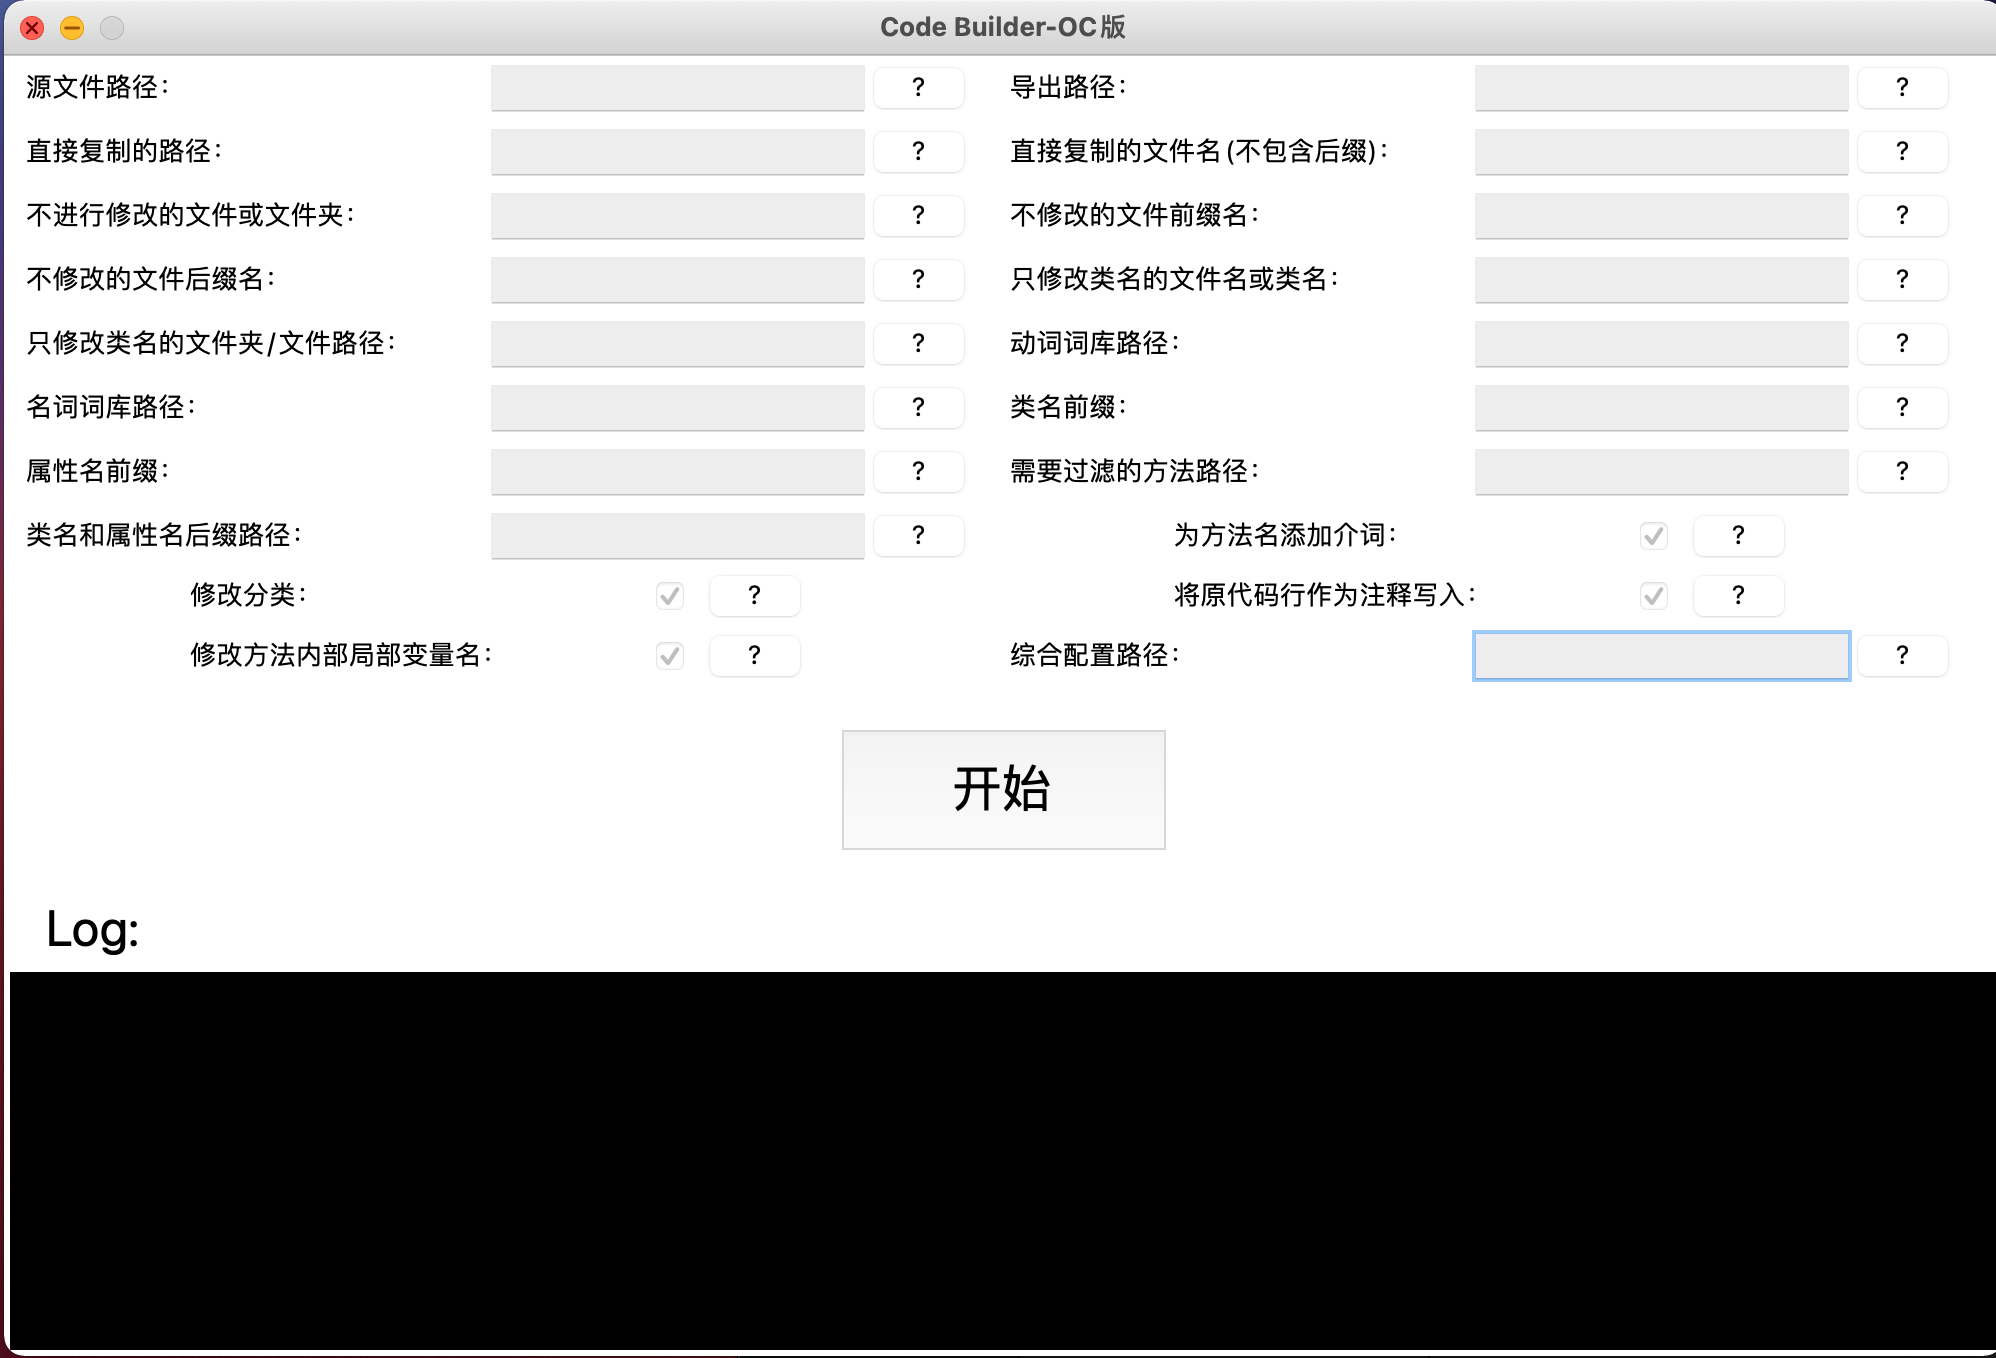
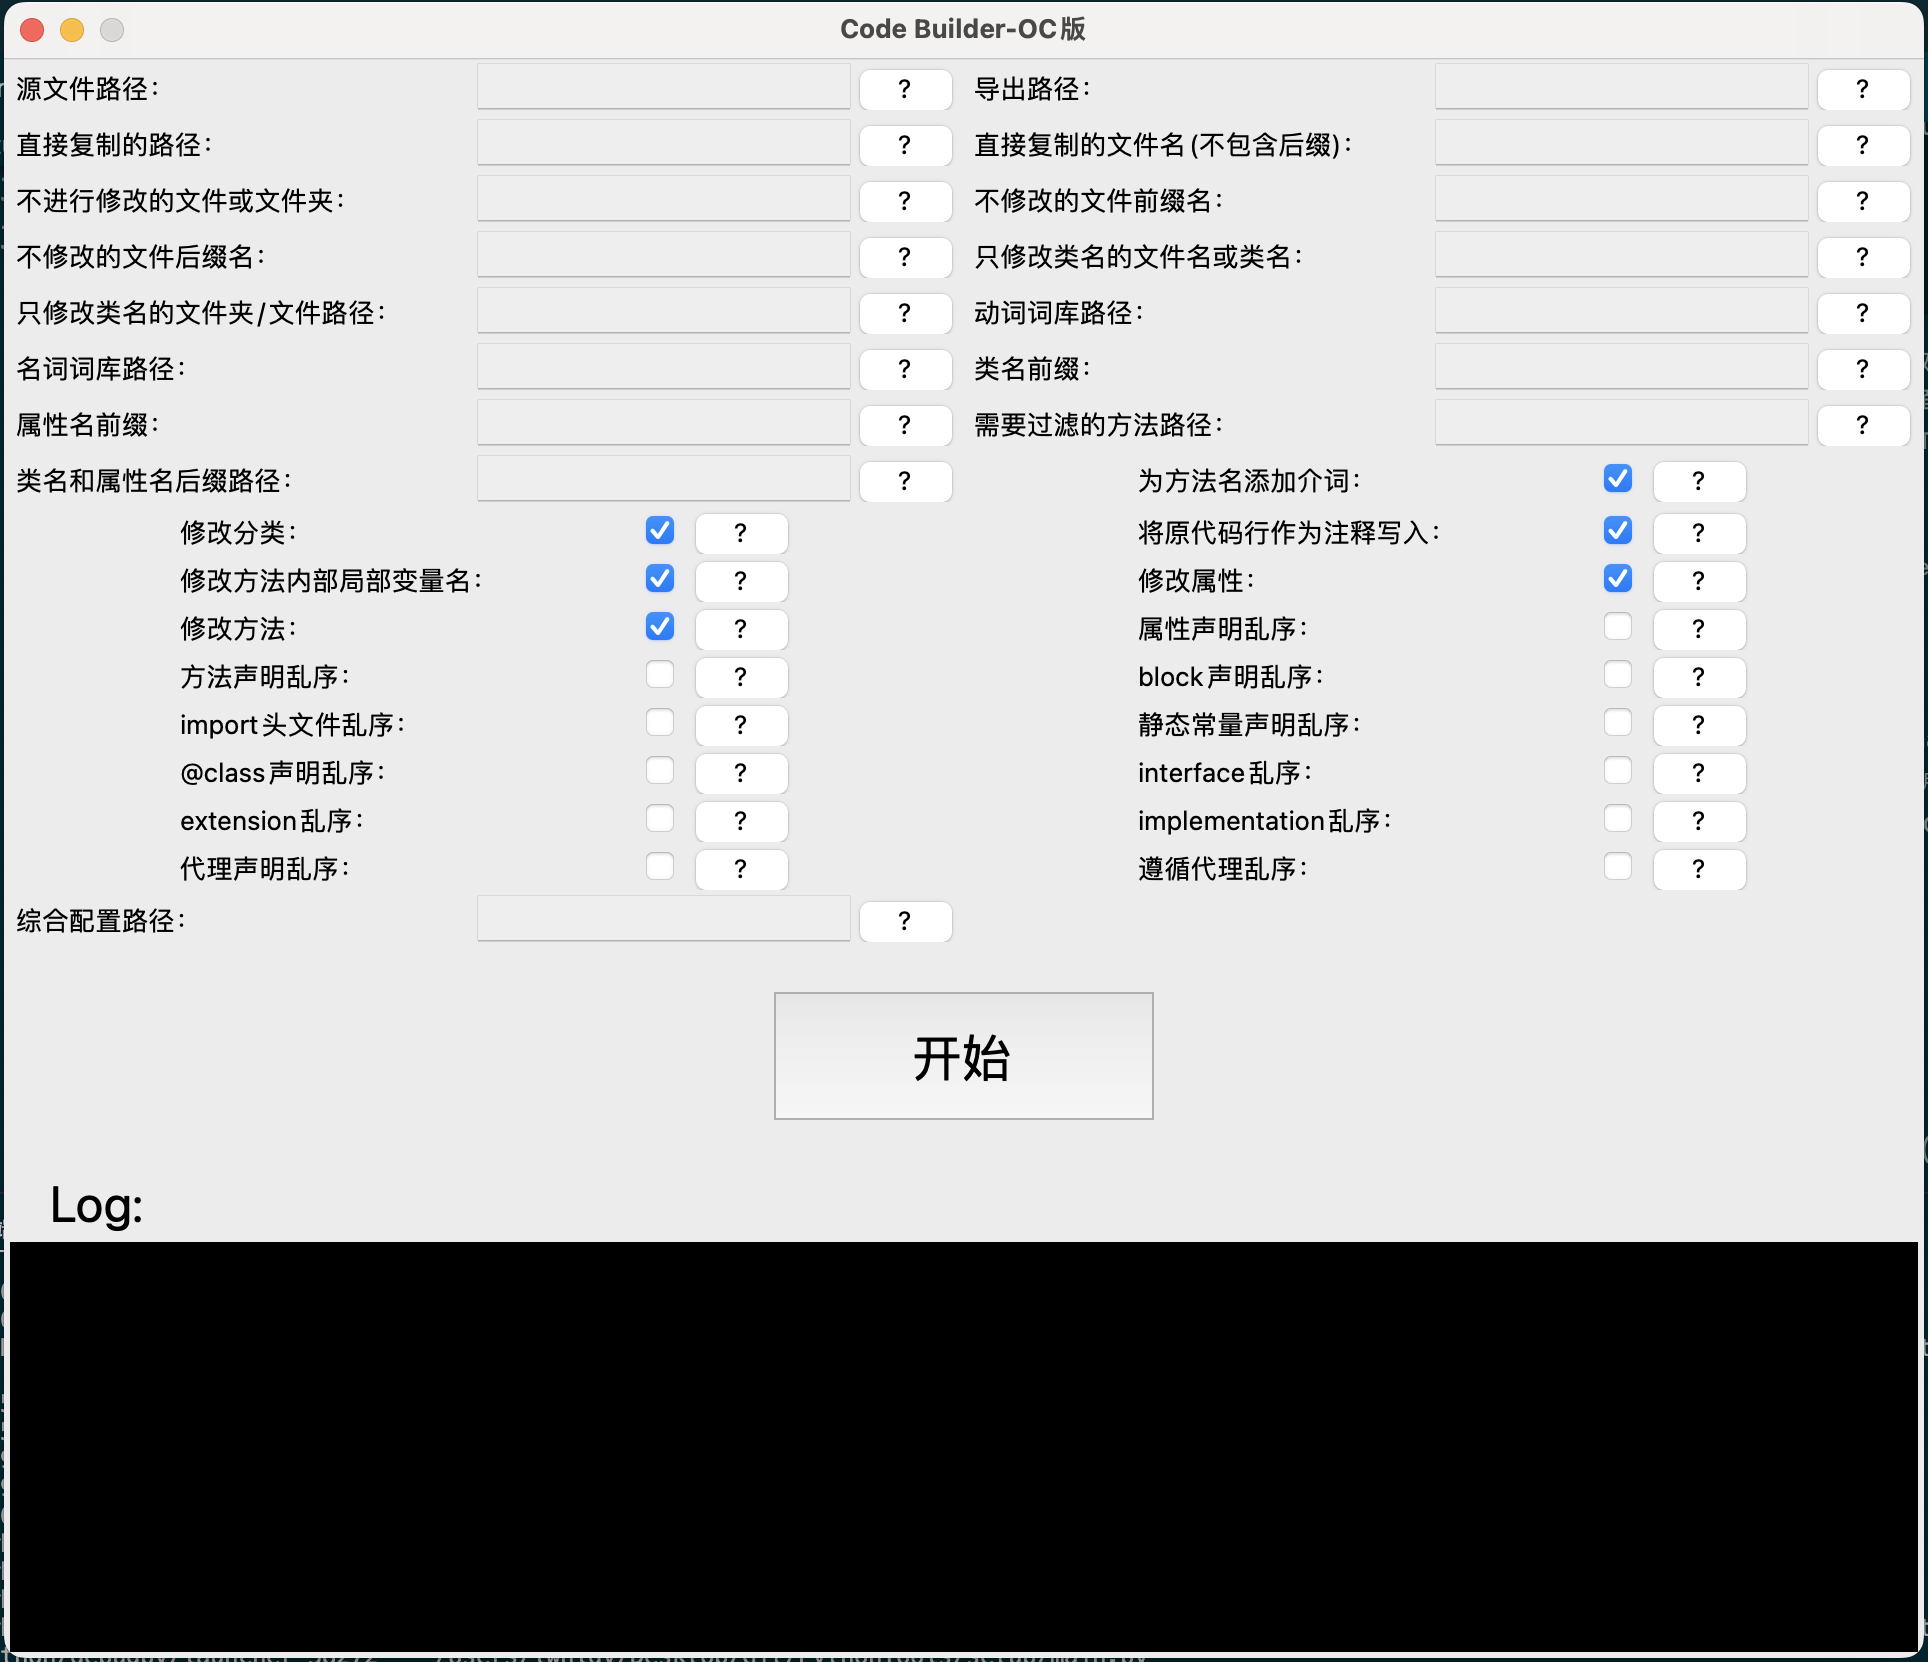
更新文档

diff --git a/README.md b/README.md
@@ -7,17 +7,17 @@
 ### 新增：
 #### 1.支持修改属性全局开关
 #### 2.支持修改方法全局开关
-#### 3.支持属性声明顺序随机
-#### 4.支持方法声明顺序随机
-#### 5.支持同文件内部多个类声明是顺序随机（指：@class xxxx）
-#### 6.支持头文件import顺序随机
-#### 7.支持静态常量定义顺序随机
-#### 8.支持interface类声明顺序随机
-#### 9.支持extentsion扩展声明顺序随机
-#### 10.支持implementation扩展声明顺序随机
-#### 11.支持代理声明顺序随机
-#### 12.支持block声明顺序随机
-#### 13.支持遵循代理顺序随机
+#### 3.支持属性声明乱序
+#### 4.支持方法声明乱序
+#### 5.支持同文件内部多个类声明是乱序（指：@class xxxx）
+#### 6.支持头文件import乱序
+#### 7.支持静态常量定义乱序
+#### 8.支持interface类声明乱序
+#### 9.支持extentsion扩展声明乱序
+#### 10.支持implementation扩展声明乱序
+#### 11.支持代理声明乱序
+#### 12.支持block声明乱序
+#### 13.支持遵循代理乱序
 
 
 ### 修复：
@@ -79,6 +79,19 @@
     10.自动添加源码注释。
     11.支持配置文件设置，对程序员更友好。
     12.自定义想要过滤的方法，直接贴上方法名，系统自动解析。
+    13.支持修改属性全局开关
+    14.支持修改方法全局开关
+    15.支持属性声明乱序
+    16.支持方法声明乱序
+    17.支持同文件内部多个类声明是乱序（指：@class xxxx）
+    18.支持头文件import乱序
+    19.支持静态常量定义乱序
+    20.支持interface类声明乱序
+    21.支持extentsion扩展声明乱序
+    22.支持implementation扩展声明乱序
+    23.支持代理声明乱序
+    24.支持block声明乱序
+    25.支持遵循代理乱序
 ##### 未来可能添加的功能：
 ######
 
